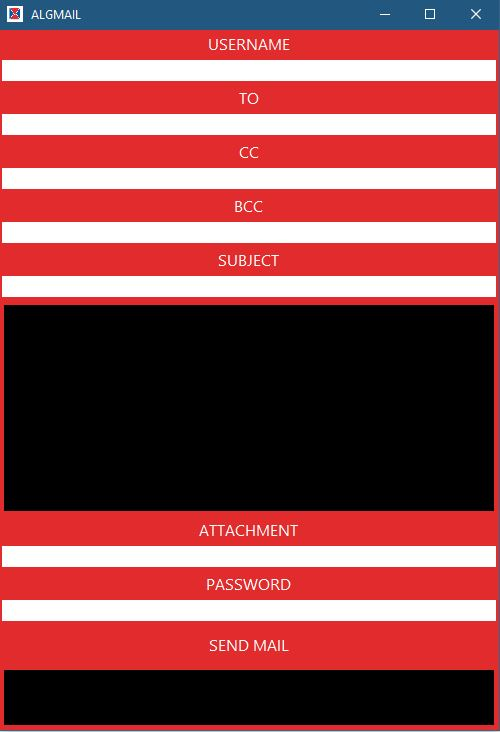
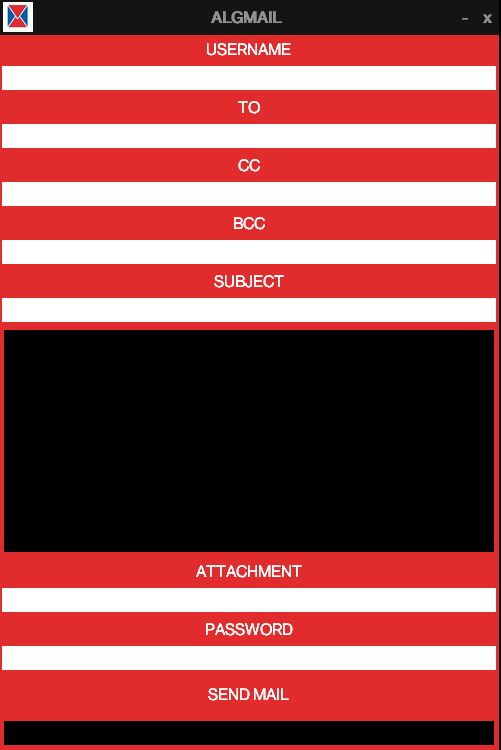
AlMail

diff --git a/AlMail.py b/AlMail.py
@@ -9,6 +9,7 @@ import os
 from tkinter import*
 from tkinter import font
 import pyttsx3
+from PIL import ImageTk, Image
 import sys
 
 cwd = os.path.dirname(os.path.realpath(__file__))
@@ -17,17 +18,32 @@ class AlMail:
     def __init__(self,mailType):
         if mailType.lower()=='gmail':
             root= Tk(className=" ALGMAIL " )
-            root.geometry("500x700+1410+315")
+            root.geometry("500x750+1410+300")
             root.config(bg="#e22b2d")
             color='#e22b2d' 
         elif mailType.lower()=='outlook' or mailType.lower()=='hotmail' or mailType.lower()=='live':
             root= Tk(className=" ALMICROSOFT " )
-            root.geometry("500x700+1410+315")
+            root.geometry("500x750+1410+300")
             root.config(bg="#035aaa")
             color='#035aaa'      
         root.resizable(0,0)
+        root.overrideredirect(1)
         root.iconbitmap(os.path.join(cwd+'\\UI\\icons', 'almail.ico'))
         
+        def callback(event):
+            root.geometry("500x750+1410+300")
+
+        def showScreen(event):
+            root.deiconify()
+            root.overrideredirect(1)
+
+        def screenAppear(event):
+            root.overrideredirect(1)
+
+        def hideScreen():
+            root.overrideredirect(0)
+            root.iconify()
+
         def speak(audio):
             engine = pyttsx3.init('sapi5')
             voices = engine.getProperty('voices')
@@ -113,8 +129,33 @@ class AlMail:
                 speak('Mail not sent. ')
             finally:
                 server.quit()
-        appHighlightFont = font.Font(family='sans-serif', size=12, weight='bold')
-        textHighlightFont = font.Font(family='Segoe UI', size=12)
+        
+        textHighlightFont = font.Font(family='OnePlus Sans Display', size=12)
+        appHighlightFont = font.Font(family='OnePlus Sans Display', size=12, weight='bold')
+
+        #title bar
+        titleBar = Frame(root, bg='#141414', relief=SUNKEN, bd=0)
+        icon = Image.open(os.path.join(cwd+'\\UI\\icons', 'almail.ico'))
+        icon = icon.resize((30,30), Image.ANTIALIAS)
+        icon = ImageTk.PhotoImage(icon)
+        iconLabel = Label(titleBar, image=icon)
+        iconLabel.photo = icon
+        iconLabel.config(bg='#141414')
+        iconLabel.grid(row=0,column=0,sticky="nsew")
+        if mailType.lower()=='gmail':
+            titleLabel = Label(titleBar, text='ALGMAIL', fg='#909090', bg='#141414', font=appHighlightFont)
+        elif mailType.lower()=='outlook' or mailType.lower()=='hotmail' or mailType.lower()=='live':
+            titleLabel = Label(titleBar, text='ALMICROSOFT', fg='#909090', bg='#141414', font=appHighlightFont)
+        titleLabel.grid(row=0,column=1,sticky="nsew")
+        closeButton = Button(titleBar, text="x", bg='#141414', fg="#909090", borderwidth=0, command=root.destroy, font=appHighlightFont)
+        closeButton.grid(row=0,column=3,sticky="nsew")
+        minimizeButton = Button(titleBar, text="-", bg='#141414', fg="#909090", borderwidth=0, command=hideScreen, font=appHighlightFont)
+        minimizeButton.grid(row=0,column=2,sticky="nsew")
+        titleBar.grid_columnconfigure(0,weight=1)
+        titleBar.grid_columnconfigure(1,weight=75)
+        titleBar.grid_columnconfigure(2,weight=1)
+        titleBar.grid_columnconfigure(3,weight=1)
+        titleBar.pack(fill=X)
 
         #user mail
         userEmail = Label(root, text="USERNAME")
@@ -179,6 +220,10 @@ class AlMail:
         text = Text(root, font="sans-serif",  relief=SUNKEN , highlightbackground=color, highlightcolor=color, highlightthickness=5, bd=0)
         text.config(bg="black", fg='white', height=2, font=appHighlightFont)
         text.pack(fill=BOTH, expand=True)
+
+        titleBar.bind("<B1-Motion>", callback)
+        titleBar.bind("<Button-3>", showScreen)
+        titleBar.bind("<Map>", screenAppear)
 
         root.mainloop()
 
